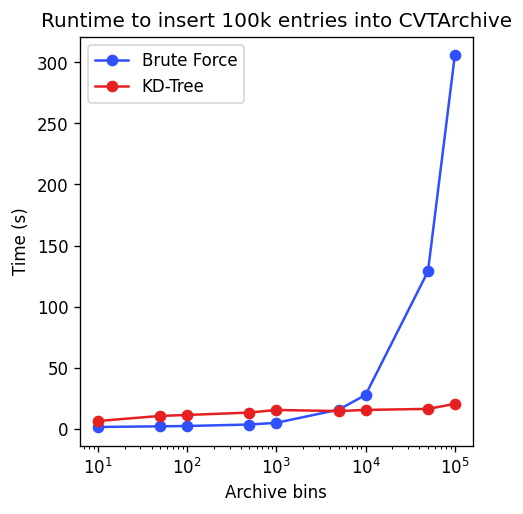
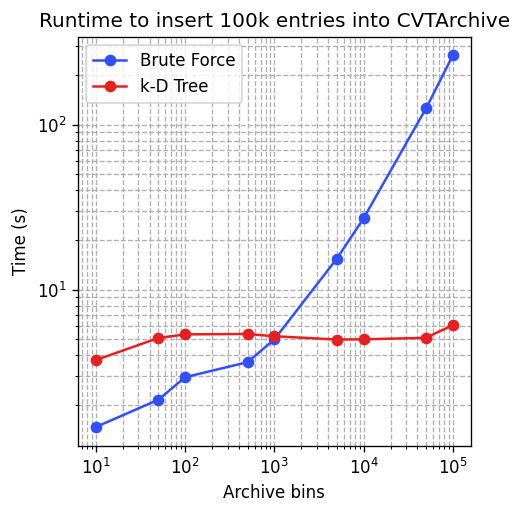
Switch to cKDTree in CVTArchive and update docs

Changed region(s): [[0.0614, 0.0, 0.952, 0.965]]

diff --git a/ribs/archives/_cvt_archive.py b/ribs/archives/_cvt_archive.py
@@ -2,7 +2,7 @@
 import numpy as np
 import pandas as pd
 from scipy.cluster.vq import kmeans
-from scipy.spatial import KDTree
+from scipy.spatial import cKDTree  # pylint: disable=no-name-in-module
 
 from ribs.archives._archive_base import ArchiveBase
 from ribs.config import create_config
@@ -22,7 +22,7 @@ class CVTArchiveConfig:
             iterations goes below this threshold (see `here
             <https://docs.scipy.org/doc/scipy/reference/cluster.vq.html>`_) for
             more info.
-        use_kd_tree (bool): If True, use a KDTree for finding the closest
+        use_kd_tree (bool): If True, use a k-D tree for finding the closest
             centroid when inserting into the archive. This may result in a
             speedup for larger dimensions; refer to
             :class:`~ribs.archives.CVTArchive` for more info.
@@ -51,28 +51,28 @@ class CVTArchive(ArchiveBase):
     space and using k-means clustering to identify k centroids. When items are
     inserted into the archive, we identify their bin by identifying the closest
     centroid in behavior space (using Euclidean distance). For k-means
-    clustering, note that we use `scipy.cluster.vq
+    clustering, we use `scipy.cluster.vq
     <https://docs.scipy.org/doc/scipy/reference/cluster.vq.html>`_.
 
     Finding the closest centroid is done in O(bins) time (i.e. brute force) by
     default. If the config has ``use_kd_tree`` set, it can be done in roughly
-    O(log bins) time using `scipy.spatial.KDTree
-    <https://docs.scipy.org/doc/scipy/reference/generated/scipy.spatial.KDTree.html>`_.
-    However, using KDTree actually lowers performance for small numbers of bins.
-    The following plot compares the runtime of brute force and KDTree when
+    O(log bins) time using `scipy.spatial.cKDTree
+    <https://docs.scipy.org/doc/scipy/reference/generated/scipy.spatial.cKDTree.html>`_.
+    However, using this k-D tree lowers performance for small numbers of bins.
+    The following plot compares the runtime of brute force vs k-D tree when
     inserting 100k samples into a 2D archive with varying numbers of bins (we
     took the minimum over 5 runs for each data point, as recommended `here
     <https://docs.python.org/3/library/timeit.html#timeit.Timer.repeat>`_). Note
-    the logarithmic x-axis. This plot was generated on a reasonably modern
+    the logarithmic scales. This plot was generated on a reasonably modern
     laptop.
 
     .. image:: _static/imgs/cvt_add_plot.png
         :alt: Runtime to insert 100k entries into CVTArchive
 
-    As we can see, archives with at least 10k bins seem to have faster insertion
-    when using KDTree than when using brute force, so **we recommend setting**
-    ``use_kd_tree`` **in your config only if you have at least 10k bins in
-    your** ``CVTArchive``. See `benchmarks/cvt_add.py
+    As we can see, archives with more than 1k bins seem to have faster insertion
+    when using a k-D tree than when using brute force, so **we recommend setting**
+    ``use_kd_tree`` **in your config if you have at least 1k bins in your**
+    ``CVTArchive``. See `benchmarks/cvt_add.py
     <https://github.com/icaros-usc/pyribs/tree/master/benchmarks/cvt_add.py>`_
     in the project repo for more information about how this plot was generated.
 
@@ -133,7 +133,7 @@ class CVTArchive(ArchiveBase):
         )[0]
 
         if self.config.use_kd_tree:
-            self._centroid_kd_tree = KDTree(self.centroids)
+            self._centroid_kd_tree = cKDTree(self.centroids)
 
     def _get_index(self, behavior_values):
         if self.config.use_kd_tree:

diff --git a/benchmarks/cvt_add.py b/benchmarks/cvt_add.py
@@ -1,17 +1,17 @@
-"""Compare performance of adding to the CVTArchive with and without KDTree.
+"""Compare performance of adding to the CVTArchive with and without k-D tree.
 
-In CVTArchive, we use KDTree to identify the bin by finding the nearest centroid
-to a solution in behavior space. Though KDTree is theoretically more efficient
-than brute force, constant factors mean that brute force can be faster than
-KDTree for smaller numbers of centroids / bins. In this script, we want to
-increase the number of bins in the archive and see when KDTree becomes faster
-than brute force.
+In CVTArchive, we use a k-D tree to identify the bin by finding the nearest
+centroid to a solution in behavior space. Though a k-D tree is theoretically
+more efficient than brute force, constant factors mean that brute force can be
+faster than k-D tree for smaller numbers of centroids / bins. In this script, we
+want to increase the number of bins in the archive and see when the k-D tree
+becomes faster than brute force.
 
 In this experiment, we construct archives with 10, 50, 100, 500, 1k, 5k, 10k,
 50k, 100k bins in the behavior space of [(-1, 1), (-1, 1)] and 100k samples. In
 each archive, we then time how long it takes to add 100k random solutions
 sampled u.a.r. from the behavior space. We run each experiment with brute force
-and with the KD tree, 5 times each, and take the minimum runtime (see
+and with the k-D tree, 5 times each, and take the minimum runtime (see
 https://docs.python.org/3/library/timeit.html#timeit.Timer.repeat).
 
 Usage:
@@ -25,8 +25,7 @@ If you wish to re-plot the results without re-running the benchmarks, you can
 modify plot_times and then run:
 
     import cvt_add  # The name of this file.
-    data = cvt_add.load_times()
-    cvt_add.plot_times(*data)
+    cvt_add.plot_times(*cvt_add.load_times())
 """
 import json
 import timeit
@@ -60,11 +59,13 @@ def plot_times(n_bins, brute_force_t, kd_tree_t, filename="cvt_add_plot.png"):
     """Plots the results to the given file."""
     fig, ax = plt.subplots(figsize=(4, 4))
     fig.tight_layout()
-    ax.set_title("Runtime to insert 100k entries into CVTArchive")
+    ax.set_title("Runtime to insert 100k 2D entries into CVTArchive")
     ax.set_xlabel("Archive bins")
     ax.set_ylabel("Time (s)")
+    ax.set_yscale("log")
     ax.semilogx(n_bins, brute_force_t, "-o", label="Brute Force", c="#304FFE")
-    ax.semilogx(n_bins, kd_tree_t, "-o", label="KD-Tree", c="#e62020")
+    ax.semilogx(n_bins, kd_tree_t, "-o", label="k-D Tree", c="#e62020")
+    ax.grid(True, which="major", linestyle="--", linewidth=1)
     ax.legend(loc="upper left")
     fig.savefig(filename, bbox_inches="tight", dpi=120)
 
@@ -99,7 +100,9 @@ def main():
     kd_tree_t = []
     for bins in n_bins:
         for use_kd_tree in (False, True):
-            print(f"--------------\nBins: {bins}\nUse KD tree: {use_kd_tree}")
+            print(f"--------------\n"
+                  f"Bins: {bins}\n"
+                  f"Method: {'k-D Tree' if use_kd_tree else 'Brute Force'}")
             setup_func = partial(setup, bins, use_kd_tree)
             res_t = min(
                 timeit.repeat(add_100k_entries, setup_func, repeat=5, number=1))
